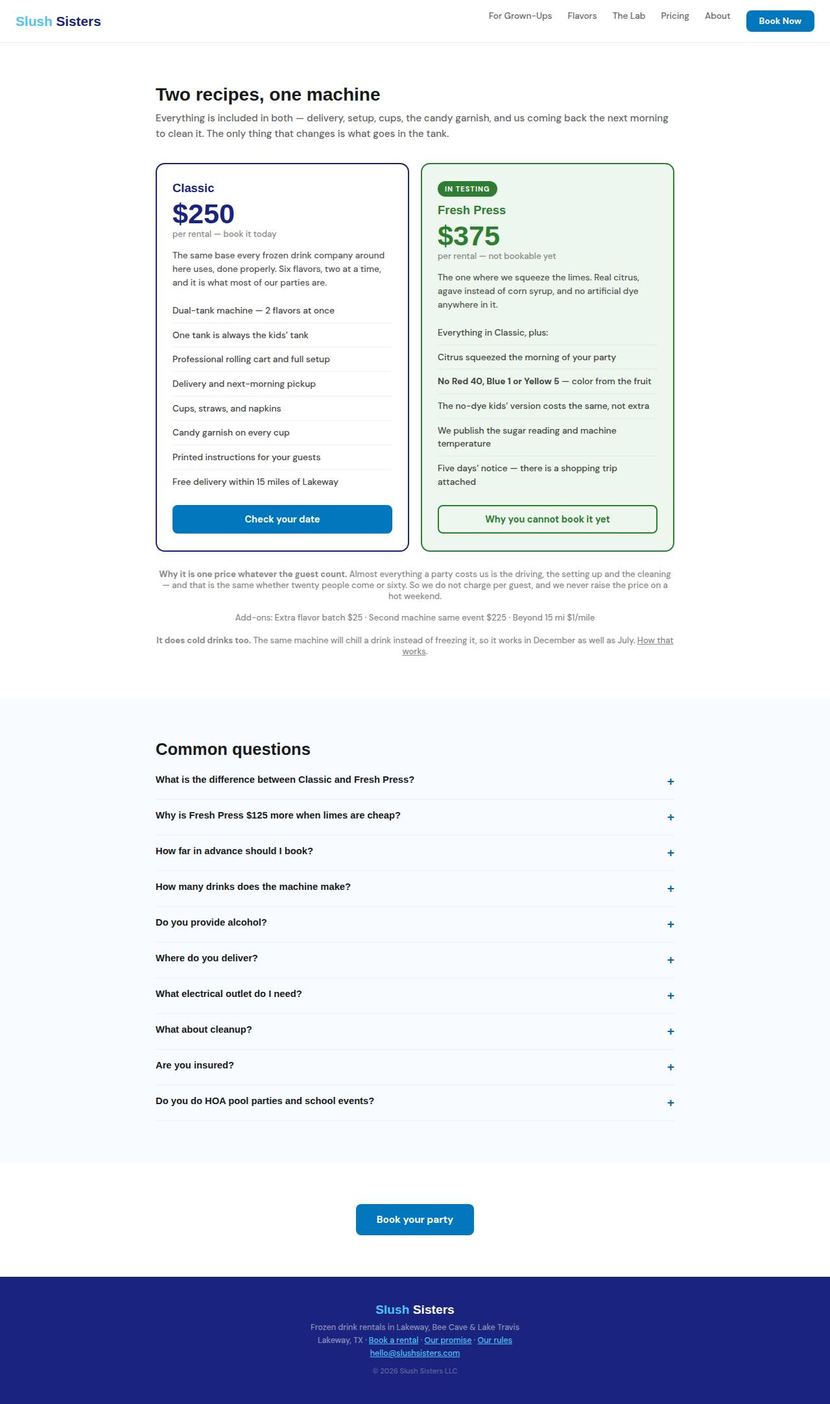
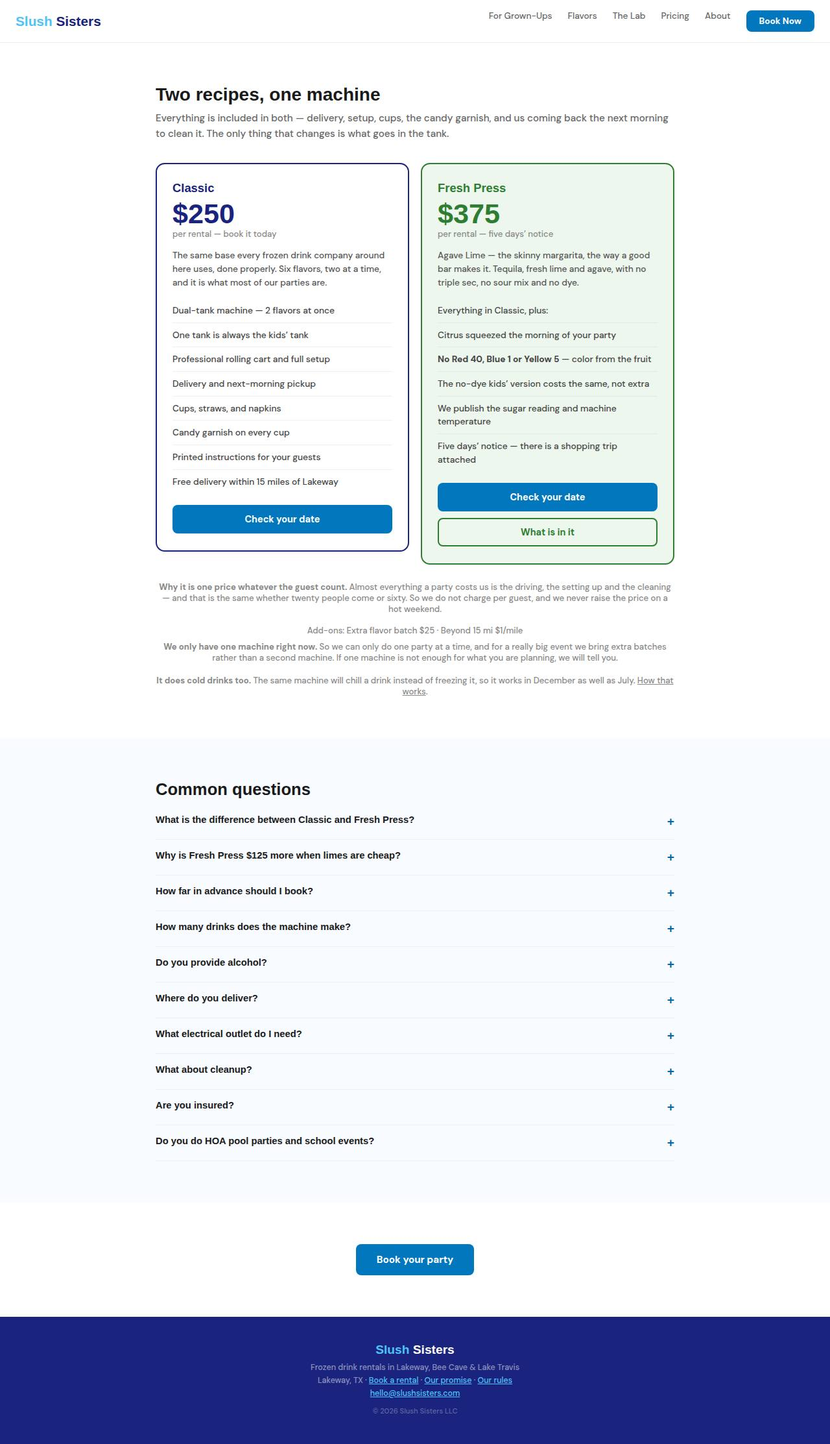
One machine, Fresh Press bookable as Agave Lime, ages under the photo (#14)
One machine confirmed, so the $225 second-machine add-on comes off /pricing, out of two /community-events FAQs, and out of the Lab's cups calculator — it was advertising a product that does not exist. Big events now get extra batches and an honest read on whether one machine is enough. The direct "we have one machine, so it is first come, first served" lines are restored on /austin and /grown-ups.

Fresh Press is bookable, named Agave Lime: tequila, fresh lime and agave, no triple sec, no sour mix, no corn syrup, no dye. That is a Tommy's margarita — the real bar reference rather than an invented one, and exactly what the recipe already was. Five days' notice is the constraint and it is stated everywhere. The freeze test has not run; that is a known and accepted call.

The booking form asks which recipe before which flavors, since the tier changes what the flavors mean. Agave Lime is priced separately on /flavors so it cannot read as included in the $250.

Homepage: the ages line moves from above the headline to under the photo.

Snapshot clean at 390px across 20 pages. All JSON-LD parses.

diff --git a/public/fresh-press.html b/public/fresh-press.html
@@ -64,8 +64,8 @@ section p{line-height:1.65;}
 .bg-light{background:#f8fbff;}
 .bg-citrus{background:var(--citrus-pale);}
 
-/* STATUS — the honest bit. Fresh Press is not bookable until the freeze
-   test passes, and saying so is cheaper than a customer getting a brick. */
+/* STATUS — the lead-time notice. Fresh Press is squeezed the morning of the
+   party, so the five days is a real constraint, not a formality. */
 .status{border:2px solid var(--citrus);border-radius:12px;padding:20px 22px;background:#fff;margin-bottom:28px;}
 .status .tag{display:inline-block;background:var(--citrus);color:#fff;font-size:.68rem;font-weight:700;letter-spacing:1.2px;text-transform:uppercase;padding:5px 11px;border-radius:99px;margin-bottom:10px;}
 .status p{font-size:.9rem;color:#444;}
@@ -138,14 +138,13 @@ footer a{color:var(--ice);}
 <div class="contain">
 <p class="kicker">The second recipe</p>
 <h1>Fresh Press</h1>
-<p class="lead">The one where we squeeze the limes. Real citrus, real fruit, agave instead of corn syrup, and no artificial dye in any of it. Same machine, same delivery, same next-morning pickup &mdash; a completely different drink in the tank.</p>
+<p style="font-family:'Baloo 2',sans-serif;font-weight:700;font-size:1.15rem;color:var(--citrus);margin:-4px 0 14px;">Agave Lime &mdash; the skinny margarita, made the way a good bar makes it</p>
+<p class="lead">The one where we squeeze the limes. Tequila, fresh lime and agave &mdash; no triple sec, no sour mix, no corn syrup and no artificial dye. Bartenders call this a Tommy&rsquo;s margarita, and it is what you are drinking when a good bar makes you a skinny one. Same machine, same delivery, same next-morning pickup &mdash; a completely different drink in the tank.</p>
 
 <div class="status">
-<span class="tag">Status: in testing</span>
-<p><b>You cannot book this yet, and here is exactly why.</b> A frozen drink machine needs sugar to freeze properly. Take too much sugar out and the mix freezes into a block, the machine strains, and someone&rsquo;s party has a broken machine in the corner of it.</p>
-<p>So we are running the freeze test first, on our own machine, in our own garage, until the recipe is reliable at the temperature the machine actually holds. When it passes, this page changes and you can book it. We would rather be late than be the reason your party went wrong.</p>
-<p><b>Where it stands right now:</b> the math is done and both recipes are worked out. What is not done is the measuring &mdash; we have never checked how sweet our agave or our limes actually are, and the whole recipe rests on those two numbers. That is a $30 tool and about ten minutes. After that comes the slow part: making a batch and watching it sit in a hot tank for four hours to see whether it separates.</p>
-<p><a href="/lab" style="color:var(--ink-ice);font-weight:600;">Follow it in the Lab, including the bit where we are still guessing &rarr;</a></p>
+<span class="tag">Now booking</span>
+<p><b>Five days&rsquo; notice, because we squeeze it the morning of your party.</b> There is a shopping trip attached to every Fresh Press booking, and the mix does not sit in a garage for a week. Five days is what makes that possible without rushing it.</p>
+<p>Tell us your date on the booking form and pick Fresh Press. We will confirm the same day.</p>
 </div>
 </div>
 </section>
@@ -218,14 +217,14 @@ footer a{color:var(--ice);}
 <details><summary>Can I have one tank Classic and one tank Fresh Press?</summary><p>Ask us. The machine does not care &mdash; the two tanks are independent. We just have not decided how to price it yet, and we would rather answer you honestly than guess on a website.</p></details>
 <details><summary>Do you provide the alcohol?</summary><p>No, and we never will. We make the mix, which is the part with no alcohol in it. A grown-up adds their own spirits once we have left. That is <a href="/promise" style="color:var(--ink-ice);">a rule we published on purpose</a>, before anyone asked.</p></details>
 <details><summary>What does &ldquo;no artificial dye&rdquo; actually mean?</summary><p>No Red 40, no Blue 1, no Yellow 5. The color comes from the fruit, which means a strawberry drink is a slightly duller pink than the bright one you are used to. That is what real strawberries look like. We will show you a photo before you book so there is no surprise.</p></details>
-<details><summary>What if the freeze test fails?</summary><p>Then we say so here, on this page, and we do not sell it. A recipe that freezes into a block is not a product. We would rather write &ldquo;this did not work&rdquo; than hand somebody a broken party.</p></details>
+<details><summary>What is a Tommy&rsquo;s margarita?</summary><p>The margarita most bars actually make when you ask for a good one. It drops the orange liqueur and the sour mix and uses just three things: tequila, fresh lime juice and agave. It was invented at Tommy&rsquo;s in San Francisco and it is the reason a real margarita tastes like lime instead of like sweets.</p><p>Ours is the frozen version of that, and the grown-up adds their own tequila. <a href="/promise" style="color:var(--ink-ice);">That rule does not change.</a></p></details>
 </div>
 </section>
 
 <section style="text-align:center;">
 <div class="contain">
-<h2>Want to know when it opens?</h2>
-<p class="lead">Book a Classic now, and tell us in the notes that you want Fresh Press when it is ready. We will come to you first.</p>
+<h2>Book it.</h2>
+<p class="lead">Pick Fresh Press on the form and give us five days. If your party is sooner than that, book the Classic &mdash; it is a good drink and it is most of what we do.</p>
 <a href="/book" class="btn">Book your party</a>
 <p style="margin-top:20px;font-size:.85rem;color:#888;">Or read <a href="/our-rules" style="color:var(--ink-ice);">the seven rules we hold ourselves to</a>.</p>
 </div>

diff --git a/public/pricing.html b/public/pricing.html
@@ -275,11 +275,10 @@ section h1{font-family:'Baloo 2',sans-serif;font-size:1.75rem;font-weight:800;ma
 </div>
 
 <div class="tier soon">
-<span class="flag">In testing</span>
 <div class="tname">Fresh Press</div>
 <div class="amount">$375</div>
-<div class="per">per rental &mdash; not bookable yet</div>
-<p class="sub">The one where we squeeze the limes. Real citrus, agave instead of corn syrup, and no artificial dye anywhere in it.</p>
+<div class="per">per rental &mdash; five days&rsquo; notice</div>
+<p class="sub">Agave Lime &mdash; the skinny margarita, the way a good bar makes it. Tequila, fresh lime and agave, with no triple sec, no sour mix and no dye.</p>
 <ul>
 <li>Everything in Classic, plus:</li>
 <li>Citrus squeezed the morning of your party</li>
@@ -288,13 +287,15 @@ section h1{font-family:'Baloo 2',sans-serif;font-size:1.75rem;font-weight:800;ma
 <li>We publish the sugar reading and machine temperature</li>
 <li>Five days&rsquo; notice &mdash; there is a shopping trip attached</li>
 </ul>
-<a href="/fresh-press" class="tbtn ghost">Why you cannot book it yet</a>
+<a href="/book" class="tbtn">Check your date</a>
+<a href="/fresh-press" class="tbtn ghost" style="margin-top:10px;">What is in it</a>
 </div>
 
 </div>
 
 <p class="extras" style="margin-bottom:10px;margin-top:26px;"><b>Why it is one price whatever the guest count.</b> Almost everything a party costs us is the driving, the setting up and the cleaning &mdash; and that is the same whether twenty people come or sixty. So we do not charge per guest, and we never raise the price on a hot weekend.</p>
-<p class="extras">Add-ons: Extra flavor batch $25 · Second machine same event $225 · Beyond 15 mi $1/mile</p>
+<p class="extras">Add-ons: Extra flavor batch $25 · Beyond 15 mi $1/mile</p>
+<p class="extras" style="margin-top:8px;"><b>We only have one machine right now.</b> So we can only do one party at a time, and for a really big event we bring extra batches rather than a second machine. If one machine is not enough for what you are planning, we will tell you.</p>
 <p class="extras" style="margin-top:18px;"><b>It does cold drinks too.</b> The same machine will chill a drink instead of freezing it, so it works in December as well as July. <a href="/grown-ups">How that works</a>.</p>
 </div>
 </section>
@@ -302,10 +303,10 @@ section h1{font-family:'Baloo 2',sans-serif;font-size:1.75rem;font-weight:800;ma
 <section class="bg-light">
 <div class="contain">
 <h2>Common questions</h2>
-<details><summary>What is the difference between Classic and Fresh Press?</summary><p>Classic uses the same bulk mix every frozen drink company around here uses. Fresh Press is citrus squeezed the morning of your party, agave instead of corn syrup, and no artificial dye in any of it. Same machine, same delivery, same next-morning pickup.</p><p>Fresh Press is not bookable yet, and <a href="/fresh-press">we explain exactly why on its own page</a> — the short version is that taking sugar out of a mix can make it freeze into a block, and we are testing that on our own machine before anyone pays for it.</p></details>
+<details><summary>What is the difference between Classic and Fresh Press?</summary><p>Classic uses the same bulk mix every frozen drink company around here uses. Fresh Press is citrus squeezed the morning of your party, agave instead of corn syrup, and no artificial dye in any of it. Same machine, same delivery, same next-morning pickup.</p><p>Fresh Press needs five days&rsquo; notice because we squeeze it the morning of your party. <a href="/fresh-press">The whole recipe is on its own page</a>.</p></details>
 <details><summary>Why is Fresh Press $125 more when limes are cheap?</summary><p>Because you are not buying limes. The ingredient difference is only about $20 to $40 a party. The rest is the morning spent squeezing, the shopping trip, mix that cannot sit in a garage for a week, and the recipe testing that had to happen first. If that is not worth it to you, book the Classic — it is a good drink and it is most of our parties.</p></details>
 <details><summary>How far in advance should I book?</summary><p>At least 1-2 weeks. Weekends in summer fill up fast. Earlier is always better. Fresh Press needs five days minimum because there is a shopping trip attached.</p></details>
-<details><summary>How many drinks does the machine make?</summary><p>Each tank makes about 30 twelve-ounce drinks, so both tanks full is about 60. That covers most parties up to about 45 people. Above that we bring extra batches, and above about 90 you want a second machine.</p></details>
+<details><summary>How many drinks does the machine make?</summary><p>Each tank makes about 30 twelve-ounce drinks, so both tanks full is about 60. That covers most parties up to about 45 people. Above that we bring extra batches to refill it during the party — a refill takes about 20 minutes to freeze. We only have one machine, so for a very large event we will tell you honestly whether one is enough.</p></details>
 <details><summary>Do you provide alcohol?</summary><p>No. We provide the frozen mixer base. Adults add their own spirits. No liquor license needed.</p></details>
 <details><summary>Where do you deliver?</summary><p>Free within 15 miles of Lakeway. That covers Bee Cave, Westlake, Steiner Ranch, and most of the Lake Travis area.</p></details>
 <details><summary>What electrical outlet do I need?</summary><p>A regular household outlet. Nothing special. Just needs to be close to where you want the machine.</p></details>

diff --git a/public/community-events.html b/public/community-events.html
@@ -136,7 +136,7 @@ footer a{color:var(--ice);}
 <div class="contain">
 <h2>Who this is usually for</h2>
 <div class="who">
-<div class="card"><h3>HOA lifestyle directors</h3><p>Pool opening, summer socials, movie nights, Fourth of July. One machine covers a mid-size social; two covers a pool opening.</p></div>
+<div class="card"><h3>HOA lifestyle directors</h3><p>Pool opening, summer socials, movie nights, Fourth of July. One machine covers a mid-size social comfortably. A big pool opening is where it starts to work hard.</p></div>
 <div class="card"><h3>PTOs and room parents</h3><p>Field day, end of year, teacher appreciation week. Daytime, all ages, no alcohol anywhere near it.</p></div>
 <div class="card"><h3>Swim and sports teams</h3><p>End-of-season parties and meet days. Hot, long, and everybody is thirsty at once &mdash; which is the case one machine handles worst, so read the sizing below.</p></div>
 <div class="card"><h3>Neighborhood block parties</h3><p>The kind organized by four people in a group chat. Usually one machine, usually mixed ages, which is what the two tanks are for.</p></div>
@@ -154,7 +154,7 @@ footer a{color:var(--ice);}
 <div class="r"><span>Time to refreeze a refill</span><span>about 20 min</span></div>
 <div class="r"><span>Comfortable for a 2&ndash;3 hour event</span><span>up to ~45 people</span></div>
 <div class="r"><span>Works with refills we bring</span><span>45&ndash;90 people</span></div>
-<div class="r"><span>Needs a second machine</span><span>90+ people</span></div>
+<div class="r"><span>Where one machine starts to struggle</span><span>90+ people</span></div>
 </div>
 <div class="note">
 <p><b>The thing that trips people up is not the crowd size, it is the shape of the event.</b> Ninety people spread over three hours is fine. Ninety people who all line up the minute the whistle goes will empty both tanks in about fifteen minutes and then wait twenty for a refill.</p>
@@ -226,8 +226,8 @@ footer a{color:var(--ice);}
 <section class="bg-light">
 <div class="contain">
 <h2>Questions organizers ask</h2>
-<details><summary>What does it cost for a community event?</summary><p>The same as everything else: $250, everything included, whatever the guest count. A second machine for the same event is $225, and extra flavor batches are $25 each. We do not charge per head and we do not raise it on a hot weekend &mdash; that is <a href="/our-rules">rule three</a>.</p></details>
-<details><summary>Can you do more than one machine?</summary><p>Yes, and above about 90 people you want two. Tell us the headcount and whether there is a rush moment, and we will say honestly which you need. We would rather talk you into two machines than have you wait twenty minutes in line.</p></details>
+<details><summary>What does it cost for a community event?</summary><p>The same as everything else: $250, everything included, whatever the guest count. Extra flavor batches are $25 each. We do not charge per head and we do not raise it on a hot weekend &mdash; that is <a href="/our-rules">rule three</a>.</p></details>
+<details><summary>Can you bring more than one machine?</summary><p>Not yet &mdash; we own one. For a big event we bring extra batches of mix and refill it during the party, and a refill takes about 20 minutes to freeze.</p><p>So if you are over about 90 people, or everyone arrives at once, tell us the numbers and we will say honestly whether one machine is enough. Sometimes the answer is no. We would rather say that than take your money and have a queue of people waiting at your event.</p></details>
 <details><summary>Can we do it in winter?</summary><p>Yes. The same machine will chill a drink instead of freezing it, so it works at a December event as well as a July one. Most people do not know these machines do that. <a href="/grown-ups">How that works</a>.</p></details>
 <details><summary>Do you need a deposit?</summary><p>A $50 deposit holds your date, same as any other booking. The rest is due at the party.</p></details>
 <details><summary>What if it rains?</summary><p>Tell us as early as you can. We would much rather move a date than have a machine sitting in the rain at an event nobody came to.</p></details>

diff --git a/public/index.html b/public/index.html
@@ -74,6 +74,14 @@ header.open nav{display:flex;}
 .hero-photo .hero-img{position:relative;right:auto;width:78%;max-width:300px;margin:24px auto 0;}
 }
 .hero-text{max-width:440px;position:relative;z-index:1;}
+/* The names sit with the photo, not above the headline. Pinned under the
+   image on desktop; on a phone the photo stacks, so it just follows it. */
+.hero-caption{position:absolute;right:36px;bottom:14px;width:40%;max-width:360px;text-align:center;
+  font-family:"Baloo 2",sans-serif;font-weight:800;font-size:.72rem;letter-spacing:.12em;
+  text-transform:uppercase;color:var(--ink-ice);z-index:2;margin:0;}
+@media(max-width:700px){
+.hero-caption{position:static;width:auto;max-width:none;right:auto;bottom:auto;padding:10px 0 20px;}
+}
 .kicker{font-family:'Baloo 2',sans-serif;font-weight:800;font-size:.78rem;letter-spacing:.14em;color:var(--ink-ice);text-transform:uppercase;margin-bottom:10px;}
 .hero-text h1{font-family:'Baloo 2',sans-serif;font-size:clamp(2rem,5vw,3rem);font-weight:800;color:var(--brand);line-height:1.1;margin-bottom:12px;}
 .hero-text p{font-size:1rem;color:#555;line-height:1.65;margin-bottom:24px;}
@@ -298,15 +306,15 @@ footer a{color:var(--ice);}
 
 <div class="hero-photo">
 <div class="hero-text">
-<p class="kicker">Harper, 11 &amp; Finley, 8 &middot; Lakeway, Texas</p>
 <h1>We are sisters and we rent out a frozen drink machine.</h1>
 <p>It makes two flavors at the same time, so the kids and the grown-ups both get something they actually want. We bring it, set it up, and come back the next morning to take it away. Our dad drives, because we cannot.</p>
 <a href="/book" class="btn">Check your date</a>
 </div>
 <picture>
 <source type="image/webp" srcset="/img/photos/sisters-cups-640.webp 640w, /img/photos/sisters-cups-1024.webp 1024w" sizes="(max-width:700px) 78vw, 360px">
-<img src="/img/photos/sisters-cups-1024.jpg" alt="Finley and Harper holding cups of bright red frozen strawberry slush" class="hero-img" fetchpriority="high" decoding="async">
+<img src="/img/photos/sisters-cups-1024.jpg" alt="Harper and Finley holding cups of bright red frozen strawberry slush" class="hero-img" fetchpriority="high" decoding="async">
 </picture>
+<p class="hero-caption">Harper, 11 &amp; Finley, 8 &middot; Lakeway, Texas</p>
 </div>
 
 <div class="marquee"><div class="marquee-inner">FROZEN DRINK RENTALS · LAKEWAY · BEE CAVE · LAKE TRAVIS · TWO FLAVORS · CANDY GARNISH ON EVERY CUP · DELIVERY + PICKUP INCLUDED · FROZEN DRINK RENTALS · LAKEWAY · BEE CAVE · LAKE TRAVIS · TWO FLAVORS · CANDY GARNISH ON EVERY CUP · DELIVERY + PICKUP INCLUDED · </div></div>

diff --git a/public/lab.html b/public/lab.html
@@ -479,7 +479,7 @@ footer a{color:var(--ice);}
 <div class="byo">
 <h3>And then the part that actually takes time</h3>
 <p>Measuring is quick. Making the Fresh Press recipe <i>work</i> is not, because a real-fruit mix has to survive four hours in a tank on a Texas afternoon without separating, and the only way to find that out is to make it and watch it.</p>
-<p style="margin-top:8px;">That is why <a href="/fresh-press">the Fresh Press page</a> says you cannot book it yet. We would rather be slow than hand somebody a broken party.</p>
+<p style="margin-top:8px;">Fresh Press is bookable now with five days&rsquo; notice, and every batch gets measured before it goes in the van. If a batch does not come out right, it does not leave the house.</p>
 </div>
 </div>
 </section>
@@ -518,7 +518,7 @@ footer a{color:var(--ice);}
 <div class="r"><span>How many cups one tank really pours</span><span>Counting</span></div>
 <div class="r"><span>How sweet our own syrup actually is, with the refractometer</span><span>First up</span></div>
 <div class="r"><span>How sweet our agave and our limes are</span><span>Same day</span></div>
-<div class="r"><span>Whether a fresh-fruit mix separates over four hours in a hot tank</span><span>Gates Fresh Press</span></div>
+<div class="r"><span>Whether a fresh-fruit mix separates over four hours in a hot tank</span><span>Running now</span></div>
 <div class="r"><span>Whether a drink sweetened only with sucralose freezes solid</span><span>Planned</span></div>
 <div class="r"><span>Whether butterfly pea flower really turns pink in the cup</span><span>Planned</span></div>
 </div>
@@ -608,8 +608,8 @@ footer a{color:var(--ice);}
       cd.textContent='The machine refreezes a refill in about 20 minutes, so there is a gap but not a problem. Extra batches are $25 each.';
       cb.classList.remove('warn');
     }else{
-      cv.textContent='This is a two-machine party.';
-      cd.textContent='More than two refills means people waiting while a tank catches up, which is the thing that actually ruins a drinks machine at a party. A second machine for the same event is $225.';
+      cv.textContent='This is bigger than one machine likes.';
+      cd.textContent='More than two refills means people waiting while a tank catches up, which is the thing that actually ruins a drinks machine at a party. We only own one machine, so for a party this size we would tell you honestly that one might not be enough.';
       cb.classList.add('warn');
     }
   }

diff --git a/public/austin.html b/public/austin.html
@@ -344,7 +344,7 @@ footer a{color:var(--ice);}
 <details><summary>Are you really two kids?</summary><p>Yes. Harper is 11 and Finley is 8. We do the mixing, the flavors, the setup, the garnish and the messages. Our dad drives, because we cannot.</p></details>
 <details><summary>Can we put alcohol in it?</summary><p>The machine leaves our house with regular non-alcoholic mix in it and that is all we ever put in. What grown-ups add after we have gone is their business, not ours. We do not buy it, we do not pour it, and we are not there for it.</p></details>
 <details><summary>How many drinks does it make?</summary><p>Both tanks hold about 60 twelve-ounce cups when full, and we can mix more during the party and top it up. For most birthday parties one fill is plenty with some left over.</p></details>
-<details><summary>How far ahead should we book?</summary><p>As early as you can, especially May through August, which is our busiest stretch. Saturdays go first, and once a date is taken it is taken. Winter is much easier to get.</p></details>
+<details><summary>How far ahead should we book?</summary><p>As early as you can, especially May through August, which is our busiest stretch. We only have one machine, so once a Saturday is taken it is taken. Winter is much easier to get.</p></details>
 <details><summary>Do you do anything other than birthday parties?</summary><p>Yes &mdash; pool parties, block parties, school events, teacher appreciation days, open houses and work parties. If you are not sure whether it fits, just ask.</p></details>
 </div>
 </section>
@@ -352,7 +352,7 @@ footer a{color:var(--ice);}
 <section class="bg-light">
 <div class="contain">
 <h2>Check if your date is open</h2>
-<p class="lead">Tell us when and where and we will get back to you. Dates really are first come, first served.</p>
+<p class="lead">Tell us when and where and we will get back to you. We have one machine, so it really is first come, first served.</p>
 <a href="/book" class="btn">Check your date</a>
 </div>
 </section>

diff --git a/public/book.html b/public/book.html
@@ -249,8 +249,10 @@ section h1{font-family:'Baloo 2',sans-serif;font-size:1.75rem;font-weight:800;ma
 </div>
 
 <div class="row2">
-<div><label for="f-flavor1">Flavor 1</label><select id="f-flavor1" name="flavor_1"><option value="">Pick a flavor</option><option>Watermelon</option><option>Strawberry Lemonade</option><option>Blue Raspberry</option><option>Mango</option><option>Margarita Lime</option><option>Piña Colada</option></select></div>
-<div><label for="f-flavor2">Flavor 2</label><select id="f-flavor2" name="flavor_2"><option value="">Pick a flavor</option><option>Watermelon</option><option>Strawberry Lemonade</option><option>Blue Raspberry</option><option>Mango</option><option>Margarita Lime</option><option>Piña Colada</option></select></div>
+<div><label for="f-tier">Which recipe</label><select id="f-tier" name="tier" required><option value="Classic">Classic — $250</option><option value="Fresh Press">Fresh Press — $375, five days&rsquo; notice</option></select></div>
+<p class="hint">Fresh Press is Agave Lime, the skinny margarita made with fresh limes and agave. <a href="/fresh-press">What is in it</a>.</p>
+<div><label for="f-flavor1">Flavor 1</label><select id="f-flavor1" name="flavor_1"><option value="">Pick a flavor</option><option>Watermelon</option><option>Strawberry Lemonade</option><option>Blue Raspberry</option><option>Mango</option><option>Margarita Lime</option><option>Piña Colada</option><option>Agave Lime (Fresh Press)</option></select></div>
+<div><label for="f-flavor2">Flavor 2</label><select id="f-flavor2" name="flavor_2"><option value="">Pick a flavor</option><option>Watermelon</option><option>Strawberry Lemonade</option><option>Blue Raspberry</option><option>Mango</option><option>Margarita Lime</option><option>Piña Colada</option><option>Agave Lime (Fresh Press)</option></select></div>
 </div>
 
 <label for="f-address">Event address</label>

diff --git a/public/flavors.html b/public/flavors.html
@@ -232,6 +232,13 @@ section h1{font-family:'Baloo 2',sans-serif;font-size:1.75rem;font-weight:800;ma
 <div class="fl-item"><div class="fl-dot" style="background:#81C784;"></div><div><h3>Margarita Lime</h3><p>THE classic margarita base. We make it frozen, adults add their own tequila.</p><div class="fl-candy">Lime wedge gummy on the rim</div></div></div>
 <div class="fl-item"><div class="fl-dot" style="background:#FFB74D;"></div><div><h3>Piña Colada</h3><p>Coconut + pineapple. Tastes like a vacation in a cup. Pool party perfection.</p><div class="fl-candy">Pineapple ring on the rim</div></div></div>
 </div>
+<div style="margin-top:34px;border:2px solid #2e7d32;background:#eef7ee;border-radius:12px;padding:22px;">
+<p style="font-size:.7rem;font-weight:700;letter-spacing:1.3px;text-transform:uppercase;color:#2e7d32;margin-bottom:6px;">Fresh Press &mdash; $375</p>
+<h3 style="font-family:'Baloo 2',sans-serif;font-size:1.1rem;font-weight:700;margin-bottom:6px;">Agave Lime</h3>
+<p style="font-size:.88rem;color:#555;line-height:1.6;">The skinny margarita, made the way a good bar makes it: fresh lime and agave, no triple sec, no sour mix and no corn syrup. Bartenders call it a Tommy&rsquo;s. A grown-up adds their own tequila, same as always.</p>
+<p style="font-size:.88rem;color:#555;line-height:1.6;margin-top:8px;">It needs five days&rsquo; notice because we squeeze it the morning of your party. <a href="/fresh-press" style="color:#2e7d32;font-weight:600;">The whole recipe &rarr;</a></p>
+</div>
+
 <p style="margin-top:32px;font-size:.88rem;color:#888;">Want something we do not have? Ask us. We can probably get it.</p>
 
 <div style="margin-top:28px;border-left:3px solid var(--ink-pink);padding:2px 0 2px 16px;">

diff --git a/public/grown-ups.html b/public/grown-ups.html
@@ -306,7 +306,7 @@ footer a{color:var(--ice);}
 <section class="bg-light">
 <div class="contain">
 <h2>Check if your date is open</h2>
-<p class="lead">Tell us when and where. Dates are first come, first served &mdash; and December fills up early.</p>
+<p class="lead">Tell us when and where. We have one machine, so it is first come, first served &mdash; and December fills up early.</p>
 <a href="/book" class="btn">Check your date</a>
 </div>
 </section>
